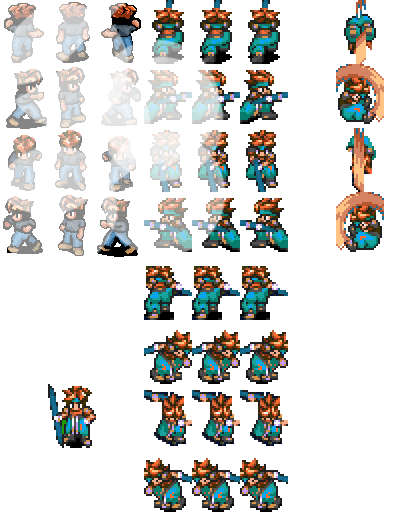
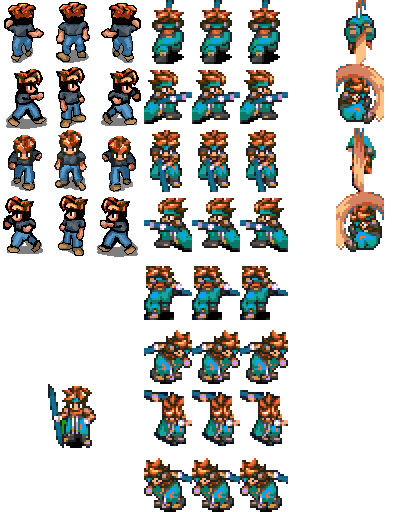
* png transition

Changed region(s): [[0.0, 0.0, 0.5787, 0.5]]

diff --git a/src/bitmaps.h b/src/bitmaps.h
@@ -26,7 +26,7 @@ t_bmpl_item bmpl_list[] = {
     {"map.stock2", "data/tiles/stock2.png", NULL, 0},
     {"font.bg.test", "data/Speak/test3.png", NULL, BL_COLORKEY},
     {"main.minilogo", "data/tiles/minilogo.png", NULL, BL_COLORKEY | BL_ALPHA_50},
-    {"player.player1", "data/player/player4.png", NULL, 0},
+    {"player.player1", "data/player/player4.png", NULL, BL_ALPHA_50},
 
     {NULL, NULL, NULL, 0}, /* the last entry must be NULL! */
 };

diff --git a/src/bmpl.cc b/src/bmpl.cc
@@ -71,11 +71,11 @@ static SDL_Surface *load_bitmap(t_bmpl_item *item)
     }
 
     if (item->flags & BL_ALPHA_50) {
-	SDL_SetAlpha(temp, SDL_SRCALPHA, 128);
+	SDL_SetAlpha(temp, SDL_SRCALPHA, 255);
     }
 
     /* Convert */
-    surf = SDL_DisplayFormat(temp);
+    surf = SDL_DisplayFormatAlpha(temp);
     if (!surf)
         error("Can't convert %s", item->file);
 

diff --git a/src/game.cc b/src/game.cc
@@ -98,7 +98,7 @@ void Game::initSDL()
     atexit(SDL_Quit);
 
     /* VideoMode... */
-    screen = SDL_SetVideoMode(800, 600, BPP, SDL_DOUBLEBUF | SDL_HWPALETTE );
+    screen = SDL_SetVideoMode(800, 600, BPP, SDL_DOUBLEBUF);
 
     if (!screen)
         error("Couldn't set VideoMode: %s", SDL_GetError());
